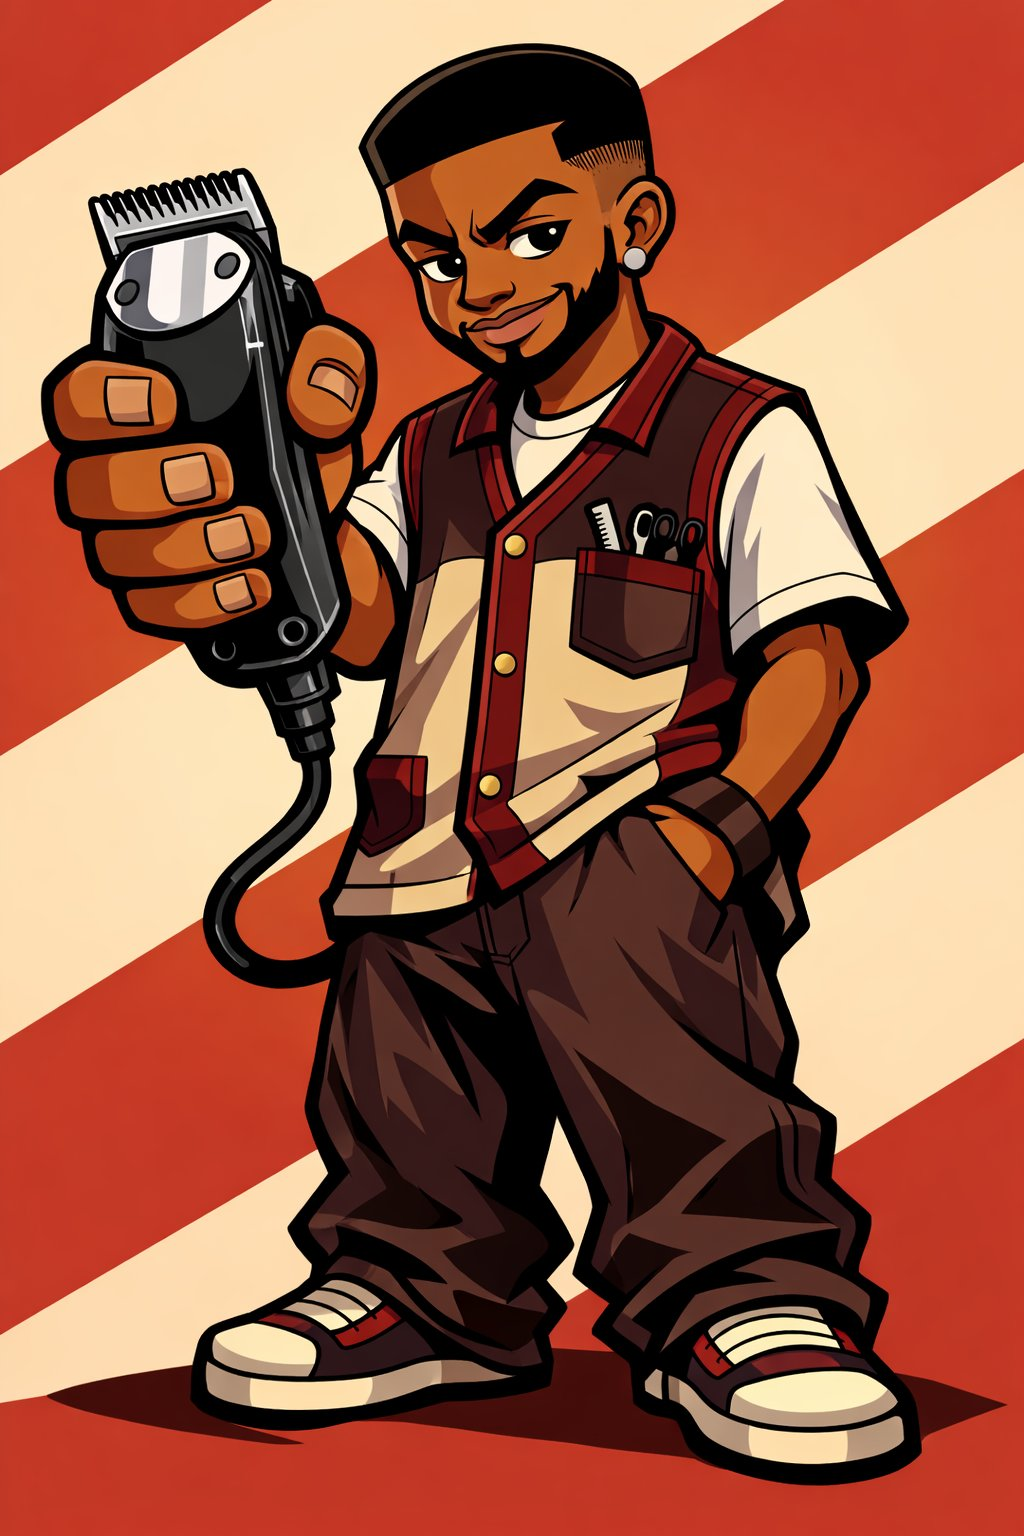
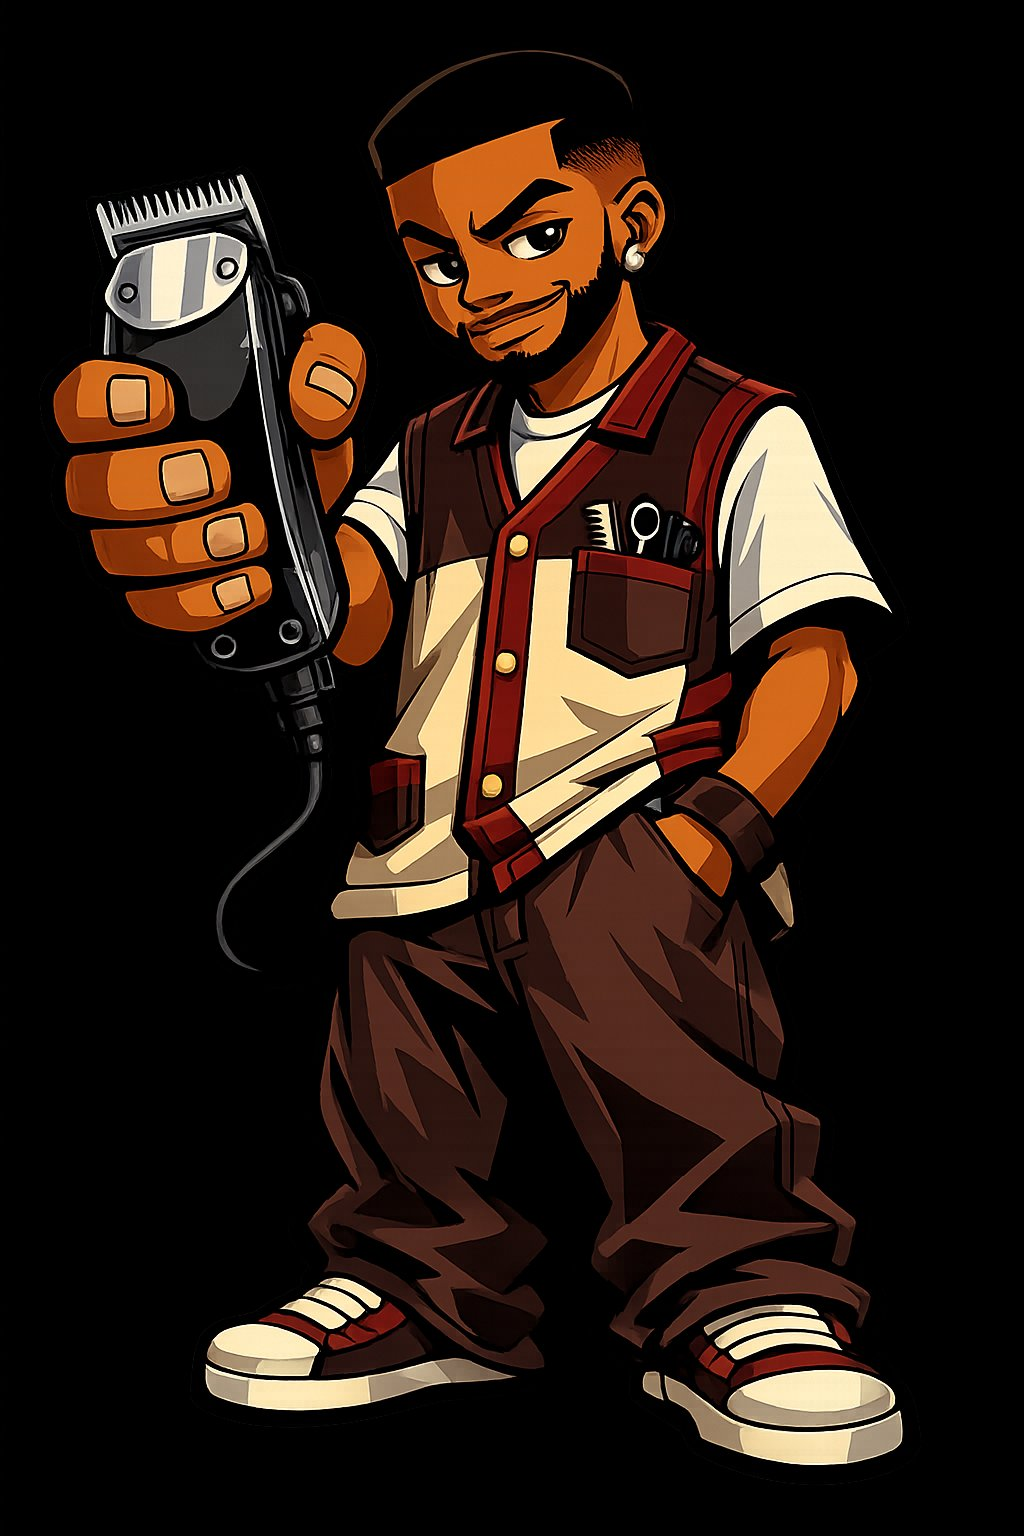
Bigger mascot, transparent bg, corner on non-home pages

diff --git a/app/page.js b/app/page.js
@@ -705,7 +705,7 @@ export default function App() {
   const startAB = (idx, other) => setAb({ a: idx, b: other !== undefined ? other : (idx === 0 ? 1 : 0) });
 
   if (!userLoaded) return <div style={{ minHeight: "100vh", background: "#1a1410", display: "flex", alignItems: "center", justifyContent: "center", color: "#9B8B73", fontFamily: "DM Sans, sans-serif" }}>Loading...</div>;
-  if (!user) return <div style={{ minHeight: "100vh", background: "#1a1410", color: "#F5E6C8", fontFamily: "DM Sans, sans-serif", display: "flex", alignItems: "center", justifyContent: "center", overflow: "hidden" }}><div style={{ maxWidth: 400, width: "100%", padding: "24px 20px", overflow: "hidden" }}><div style={{ textAlign: "center", marginBottom: 24 }}><img src="/mascot.png" alt="Clip Cutter" style={{ width: 150, height: "auto", marginBottom: 8, filter: "drop-shadow(0 4px 16px rgba(0,0,0,0.6))" }} /><h1 style={{ fontSize: 32, fontWeight: 800, marginBottom: 6, fontFamily: "'Permanent Marker', cursive", color: "#F5A623", letterSpacing: 2, textShadow: "2px 2px 0px rgba(199,62,62,0.4)" }}>CLIP CUTTER</h1><p style={{ color: "#9B8B73", fontSize: 13, fontFamily: "Fredoka, sans-serif", letterSpacing: 2, textTransform: "uppercase" }}>Team Collaboration</p></div><SetupForm onSetup={setupUser} /></div></div>;
+  if (!user) return <div style={{ minHeight: "100vh", background: "#1a1410", color: "#F5E6C8", fontFamily: "DM Sans, sans-serif", display: "flex", alignItems: "center", justifyContent: "center", overflow: "hidden" }}><div style={{ maxWidth: 400, width: "100%", padding: "24px 20px", overflow: "hidden" }}><div style={{ textAlign: "center", marginBottom: 24 }}><img src="/mascot.png" alt="Clip Cutter" style={{ width: 200, height: "auto", marginBottom: 4, filter: "drop-shadow(0 6px 20px rgba(0,0,0,0.7))" }} /><h1 style={{ fontSize: 32, fontWeight: 800, marginBottom: 6, fontFamily: "'Permanent Marker', cursive", color: "#F5A623", letterSpacing: 2, textShadow: "2px 2px 0px rgba(199,62,62,0.4)" }}>CLIP CUTTER</h1><p style={{ color: "#9B8B73", fontSize: 13, fontFamily: "Fredoka, sans-serif", letterSpacing: 2, textTransform: "uppercase" }}>Team Collaboration</p></div><SetupForm onSetup={setupUser} /></div></div>;
 
   return (
     <div style={{ minHeight: "100vh", background: "#1a1410", color: "#F5E6C8", fontFamily: "DM Sans, sans-serif", overflow: "hidden" }}>
@@ -1010,7 +1010,7 @@ export default function App() {
       </div>
 
       {playing && <div style={{ position: "fixed", bottom: 0, left: 0, right: 0, height: 3, zIndex: 100, background: "rgba(245,166,35,0.1)" }}><div style={{ height: "100%", width: `${progress * 100}%`, background: "linear-gradient(90deg,#F5A623,#C73E3E)", transition: "width 0.1s linear" }} /></div>}
-      <img src="/mascot.png" alt="" style={{ position: "fixed", bottom: 8, right: 8, width: 48, height: 48, objectFit: "contain", opacity: 0.15, pointerEvents: "none", zIndex: 10, filter: "drop-shadow(0 2px 4px rgba(0,0,0,0.3))" }} />
+      {page !== "home" && <img src="/mascot.png" alt="" style={{ position: "fixed", bottom: 12, right: 12, width: 90, height: "auto", opacity: 0.2, pointerEvents: "none", zIndex: 10, filter: "drop-shadow(0 2px 8px rgba(0,0,0,0.4))" }} />}
       <style>{`@keyframes spin{to{transform:rotate(360deg)}}*{box-sizing:border-box}button:hover{filter:brightness(1.15)}input:focus{border-color:rgba(245,166,35,0.3)!important}html{overflow-x:hidden;width:100%;height:100%}body{margin:0;padding:0;overflow-x:hidden;width:100%;max-width:100%;-webkit-text-size-adjust:100%}canvas{display:block;max-width:100%}input,button{max-width:100%}#__next{overflow-x:hidden;width:100%}::selection{background:rgba(245,166,35,0.3);color:#F5E6C8}`}</style>
       </div>
     </div>
